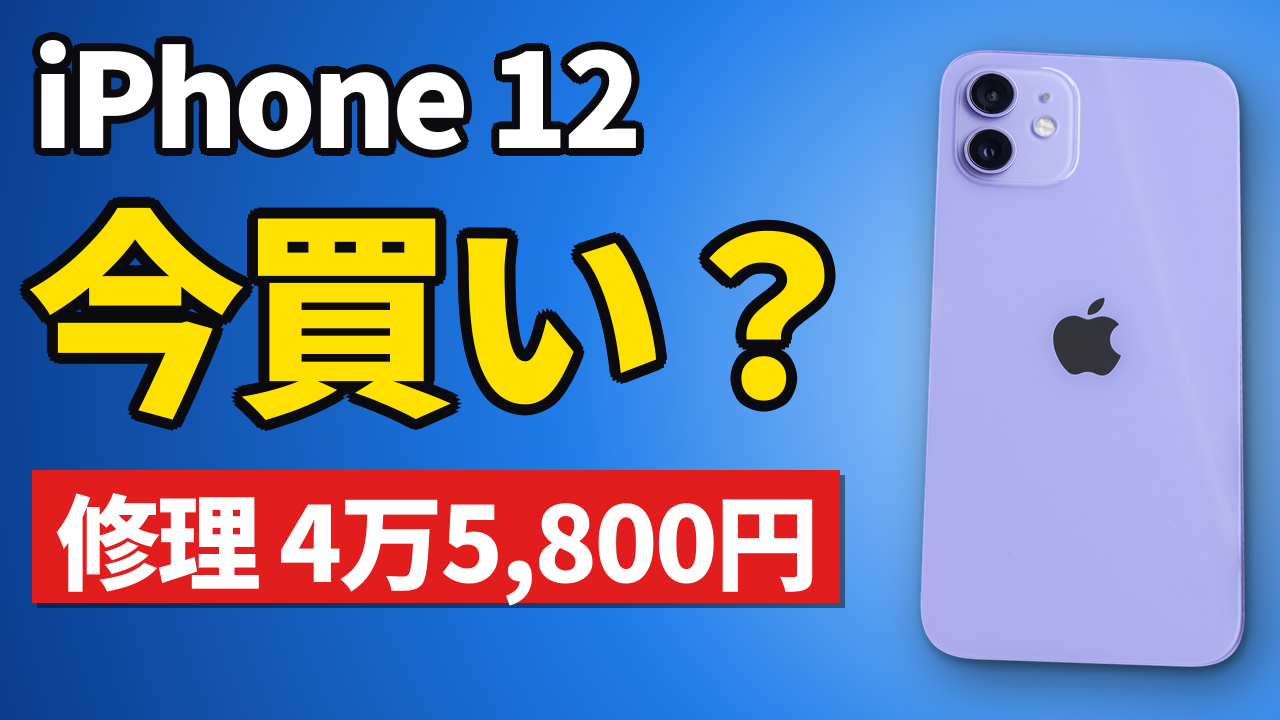
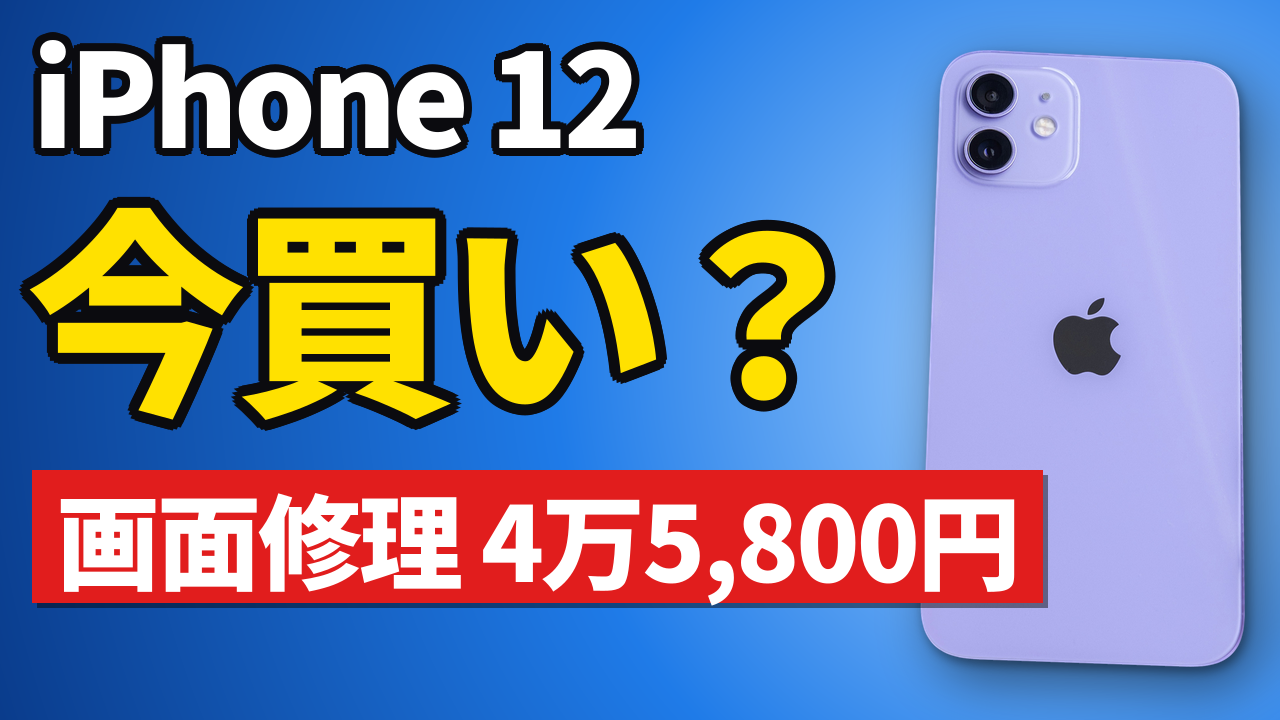
longform: iPhone 12 のサムネの札を「画面修理 4万5,800円」に

Changed region(s): [[0.0312, 0.6417, 0.8438, 0.8556]]

diff --git a/longform/2026-11-21-iphone12/thumb.tsx b/longform/2026-11-21-iphone12/thumb.tsx
@@ -8,7 +8,7 @@
  *   無ければ写真なしの配置（文字を大きく）。Commons の iPhone 12 は CC BY-SA だけだった（11/14。SOURCES.md）
  * - 11/14 決定は B 案（赤札）。写真は Unsplash の Thai Nguyen（IegLpS8Eay8・パープル・Unsplash License。assets/stock-photo/SOURCES.md）。
  *   層は python longform/2026-11-21-iphone12/thumb-prep.py（cut layer → この tsx → contact series）。端末は x 918〜1265
- *   写真なしの B は thumb-B-nophoto.png。写真ありの札は「修理 4万5,800円」（「画面修理」は 104px だと x 890 を越える）
+ *   写真なしの B は thumb-B-nophoto.png。写真ありの札も「画面修理 4万5,800円」（端末に少し被る。11/14 ユーザー「ちょっと被っても大丈夫」）
  */
 import { existsSync, readFileSync, writeFileSync } from "node:fs";
 import { join } from "node:path";
@@ -45,7 +45,7 @@ const Tag = ({ x, y, text, size, bg, color, pad = 24 }: { x: number; y: number; 
 type Plan = { tag: string; tagPhoto: string; tagBg: string; tagColor: string };
 const PLANS: Record<string, Plan> = {
   A: { tag: "相場 3万6,080円", tagPhoto: "相場 3万6,080円", tagBg: WHITE, tagColor: BLACK },
-  B: { tag: "画面修理 4万5,800円", tagPhoto: "修理 4万5,800円", tagBg: RED, tagColor: WHITE },
+  B: { tag: "画面修理 4万5,800円", tagPhoto: "画面修理 4万5,800円", tagBg: RED, tagColor: WHITE },
 };
 
 function thumb(p: Plan, photo: string | null) {

diff --git a/docs/changes.md b/docs/changes.md
@@ -157,3 +157,4 @@
 - 11/14 監視: 「イオシス: OPPO が0件」を問題にしない（`lib/health.ts` の `SPARSE_KINDS`）。イオシス楽天の OPPO は商品名に容量がなく行にならないものが大半で、行は 0〜1件（11/13 朝 1件→夜から 0件）。Actions が5回続けて失敗になり、本当の障害が埋もれるため。`lib/shops.ts`・fetch.php は変えていない（在庫が入れば画面に出る）
 - 11/14 ショートの0秒目の AI クリップ（電池）を作り直して差し替え: 前の版は黒い画面に顔の映り込みと稲妻マーク → 机の上・真上から・人物なし・稲妻なしの版（Flow・Omni 1.2 Flash・4秒・12クレジット）。`shorts/assets/stock/ai-battery.mp4`（前の版は `ai-battery-old.mp4`。どちらも git 管理外）。元は `.claude/flow-test/flow-10-battery.mp4`
 - 11/14 ユーザー決定: 横動画「中古iPhone 12は今買い？」のサムネは B 案（赤札）＋実機の写真。写真は Unsplash の Thai Nguyen「iPhone 12」パープル（https://unsplash.com/photos/IegLpS8Eay8 ・Unsplash License・タグ「iPhone 12」。説明文は無し）を切り抜き（`longform/2026-11-21-iphone12/thumb-prep.py`）。写真ありの札は「修理 4万5,800円」（「画面修理」は 104px で端末に届くため）。写真なしの版は `thumb-B-nophoto.png`。Commons の CC BY-SA の候補は使っていない
+- 11/14 ユーザー決定: iPhone 12 の回のサムネの札は「画面修理 4万5,800円」（写真ありでも「画面」を落とさない。端末に少し被ってよい）
